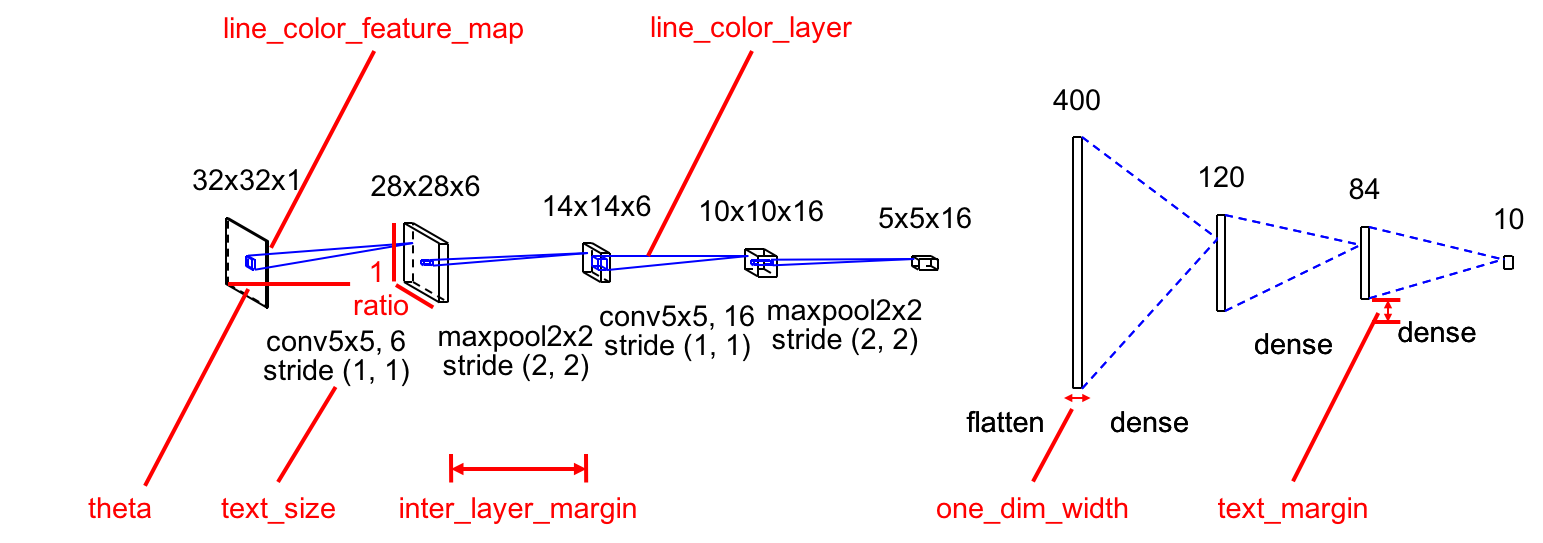
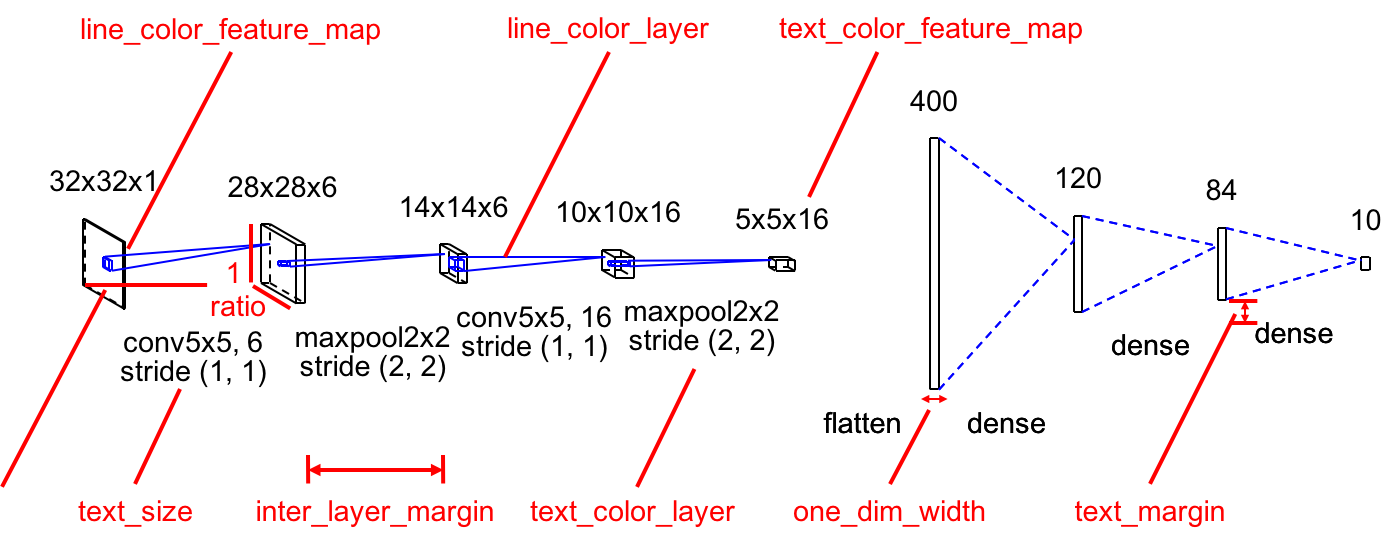
add parameters

diff --git a/README.md b/README.md
@@ -120,6 +120,21 @@ Check how the other parameters works:
 
 <img src="parameters.png">
 
+```python
+theta = - math.pi / 6
+ratio = 0.7
+bounding_box_margin = 10
+inter_layer_margin = 50
+text_margin = 10
+channel_scale = 3 / 5
+text_size = 14
+one_dim_width = 4
+line_color_feature_map = (0, 0, 0)
+line_color_layer = (0, 0, 255)
+text_color_feature_map = (0, 0, 0)
+text_color_layer = (0, 0, 0)
+```
+
 
 ## TODOs
 - [x] Implement padding option for Conv2D and Pooling layers.
